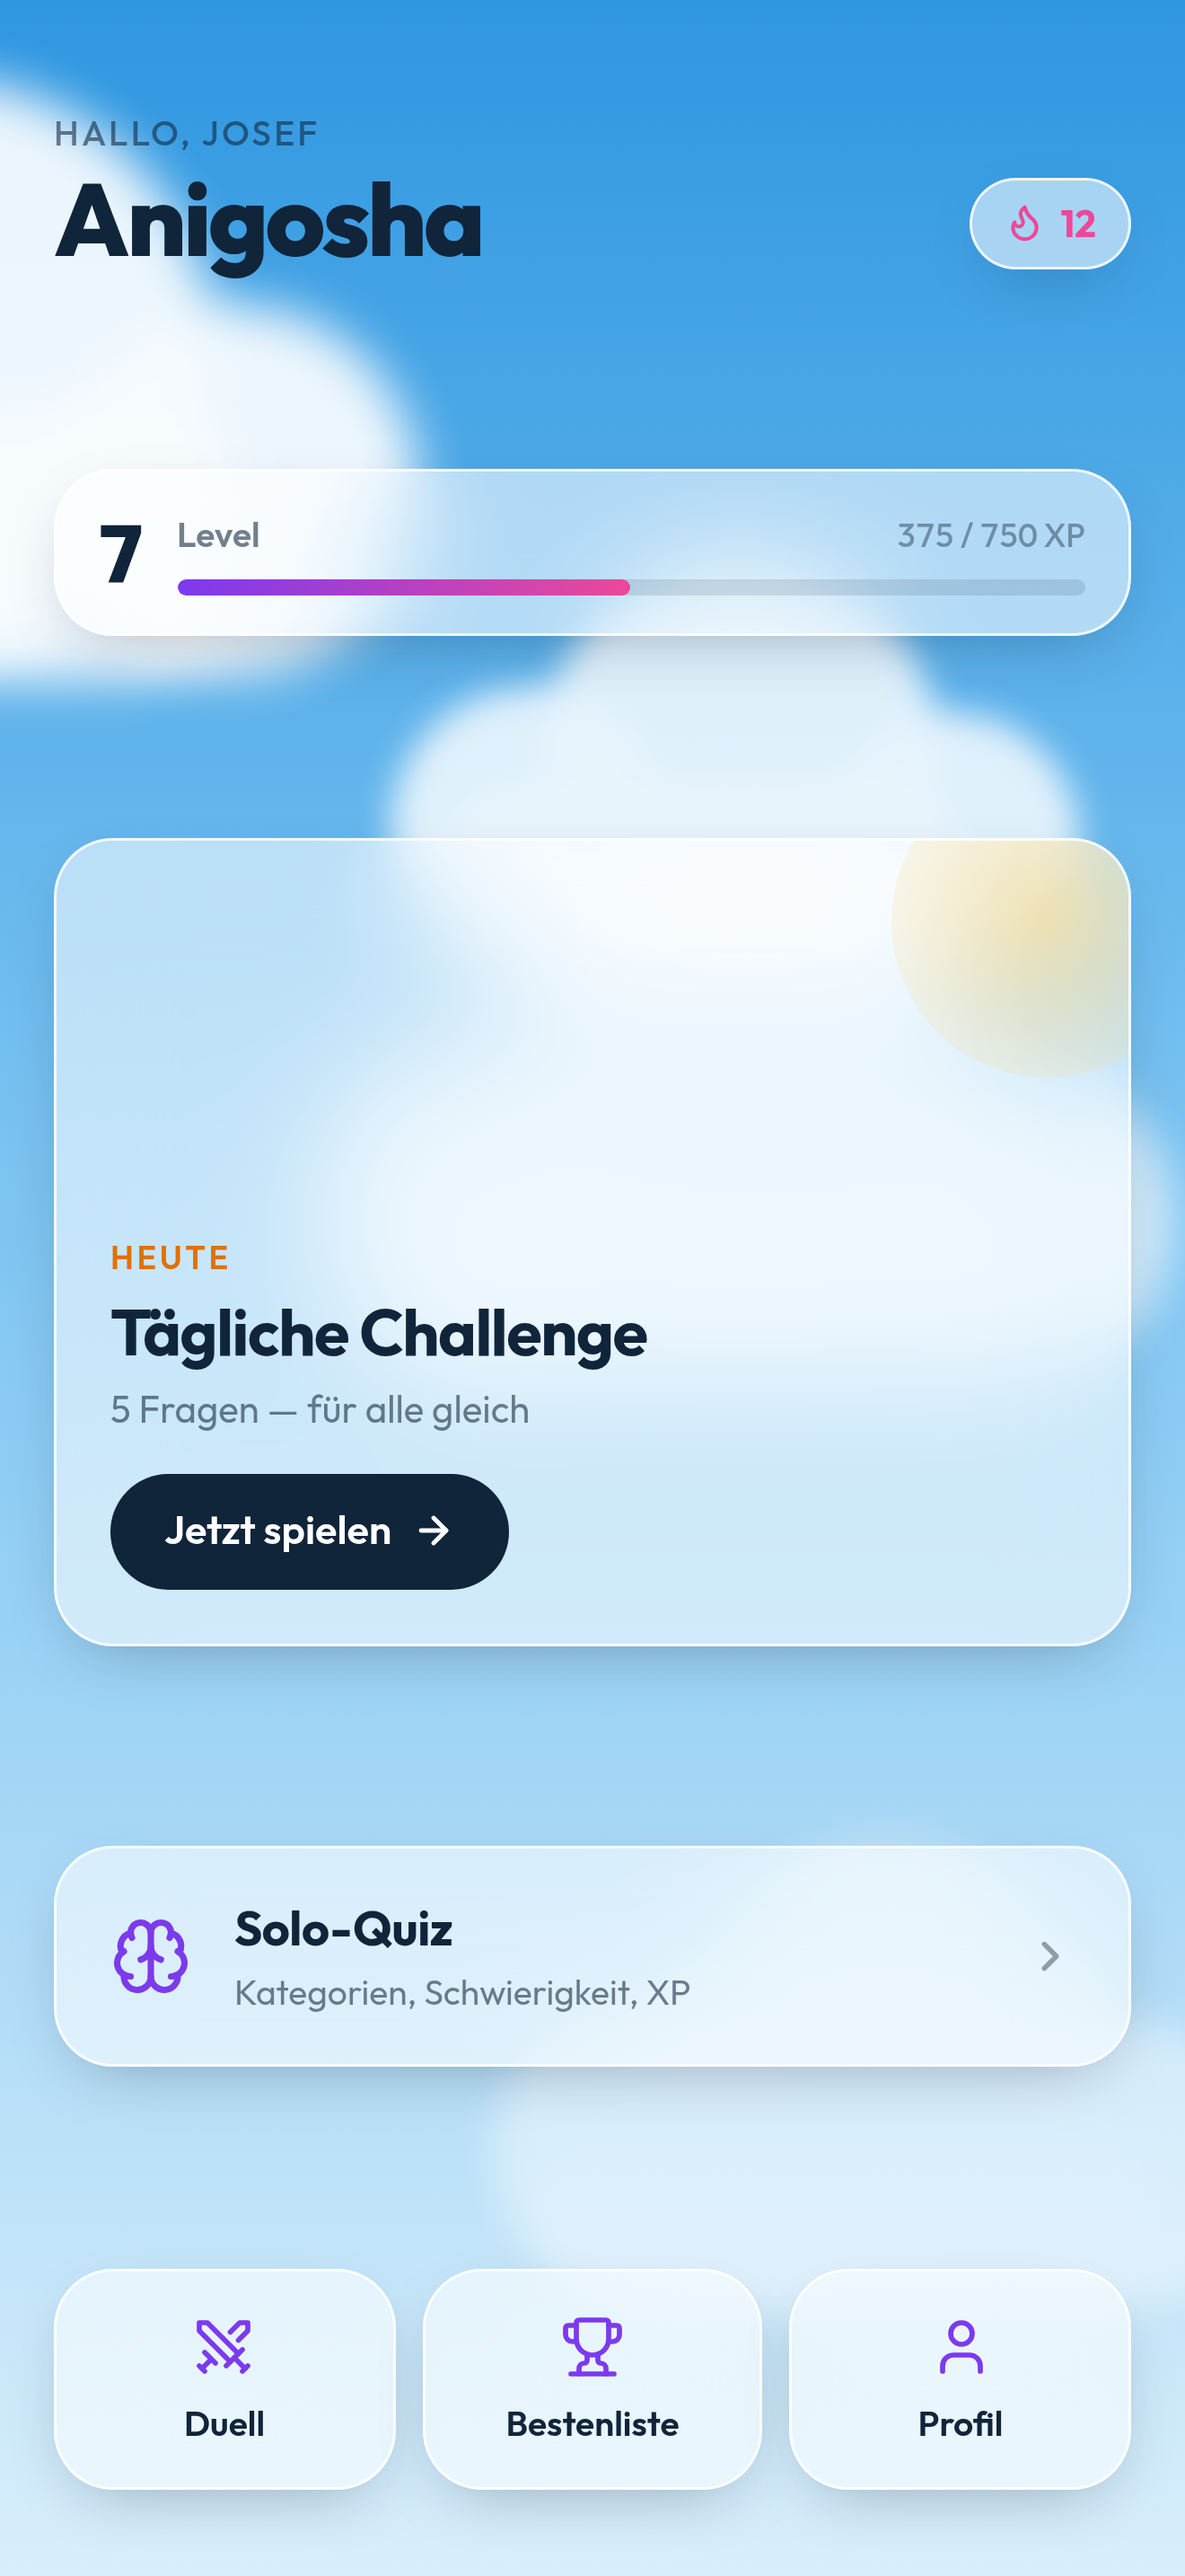
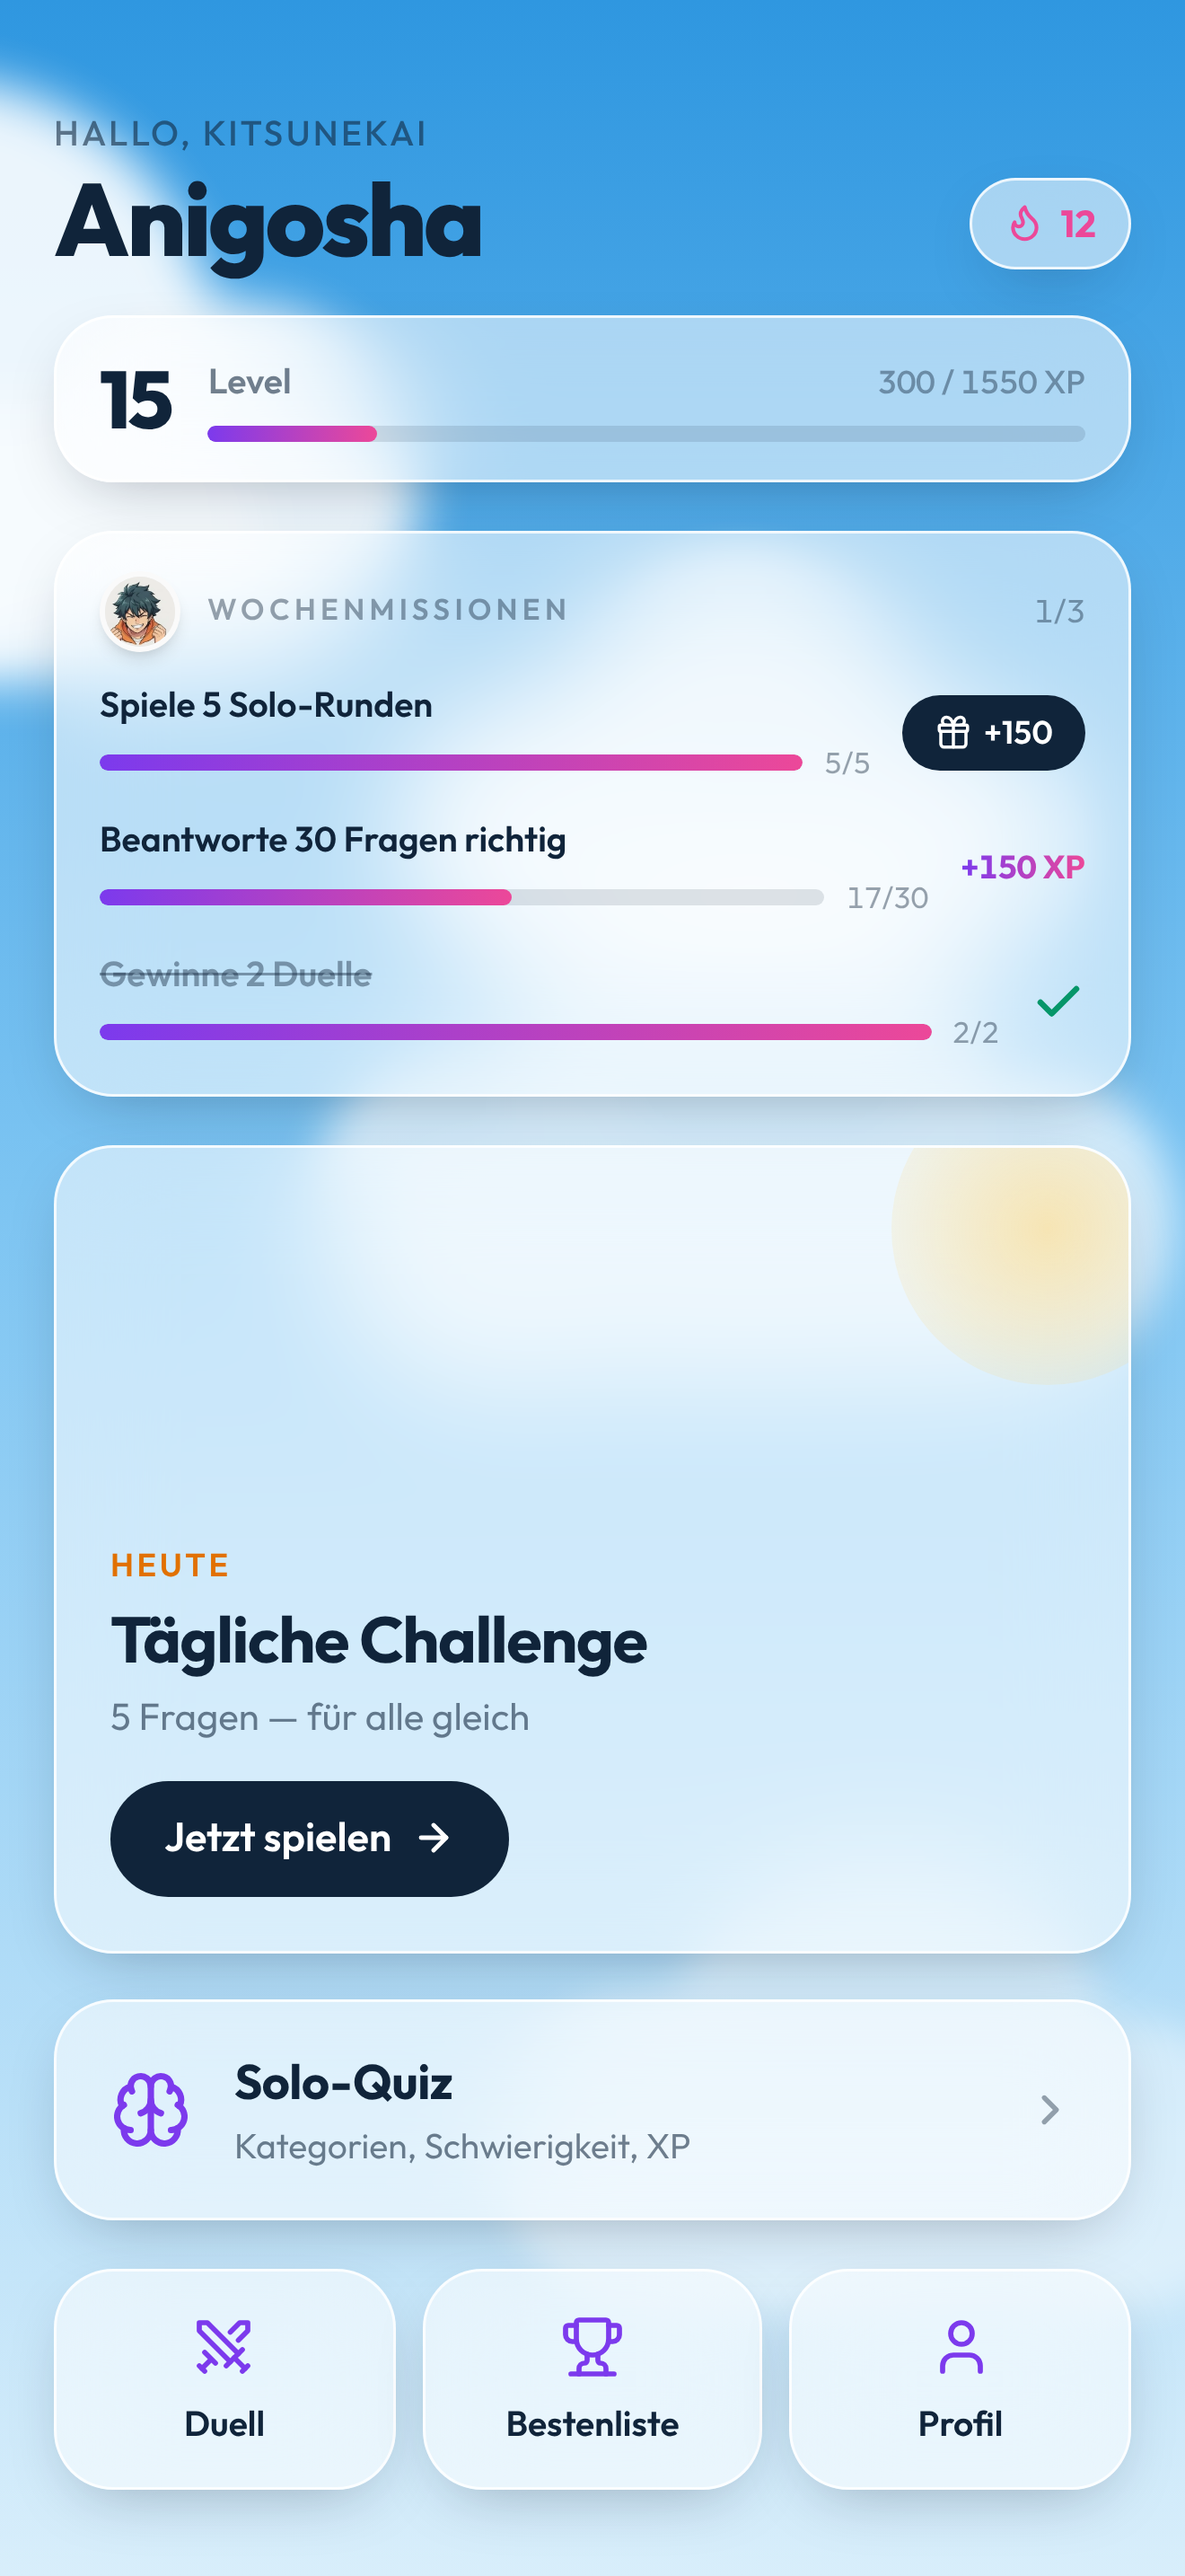
Neue Store-Screenshots: Missionen, Modi, Wer bin ich?, Avatare (5 Sprachen, 3 Formate)
- tools/store-shots-pruefstand.mjs: 7 Motive, klickt sich bis zum
  gewünschten Zustand, alle fünf Sprachen als Vorgabe, FORMAT=… zum Eingrenzen
- Prüfstand: Fragen, Erklärung und Hinweise je Sprache, erfundener
  Spielername statt Josef, Avatar passend zum Level
- alte Dateinamen (2-solo, 3-duell, 4-bestenliste, 5-profil) entfernt

Claude-Session: https://claude.ai/code/session_01Ba53FvWnmGrAjFCoXEtt6S

diff --git a/.pruefstand/stubs/solo.ts b/.pruefstand/stubs/solo.ts
@@ -2,21 +2,46 @@ const KAT = [
   ['one_piece','One Piece'],['naruto','Naruto'],['dragon_ball','Dragon Ball'],['pokemon','Pokémon'],
   ['detektiv_conan','Detektiv Conan'],['inuyasha','InuYasha'],['ranma','Ranma ½'],['attack_on_titan','Attack on Titan'],
   ['death_note','Death Note'],['my_hero','My Hero Academia'],['demon_slayer','Demon Slayer'],['jujutsu_kaisen','Jujutsu Kaisen'],
-  ['frieren','Frieren'],['chainsaw_man','Chainsaw Man'],['spy_family','Spy x Family'],['solo_leveling','Solo Leveling'],['blue_lock','Blue Lock'],['hunter_x_hunter','Hunter x Hunter'],['emoji_raetsel','Emoji-Rätsel'],
+  ['frieren','Frieren'],['chainsaw_man','Chainsaw Man'],['spy_family','Spy x Family'],['solo_leveling','Solo Leveling'],['blue_lock','Blue Lock'],['hunter_x_hunter','Hunter x Hunter'],['emoji_raetsel','Emoji-Rätsel','Emoji Riddles'],
 ];
 export const fetchCategories = async () =>
-  KAT.map(([slug, name], i) => ({ id: slug, slug, name_de: name, name_en: name, sort_order: i + 1 }));
+  KAT.map(([slug, name, en], i) => ({ id: slug, slug, name_de: name, name_en: en ?? name, sort_order: i + 1 }));
+// Texte je Sprache — sonst trügen die Store-Bilder für ES/FR/PT deutsche Fragen.
+const L = (() => {
+  try { return (localStorage.getItem('language') ?? 'de').slice(0, 2); } catch { return 'de'; }
+})();
+const T = {
+  de: { frage: 'Welchen Namen legt sich Shinichi als Kind zu?', erkl: 'Der Name setzt sich aus zwei berühmten Krimiautoren zusammen.',
+        wer: 'Wer bin ich? Ich bin aus Gummi und wurde in einem kleinen Dorf im East Blue groß. (One Piece)',
+        hin: ['Ich trage einen Strohhut.', 'Ich will König der Piraten werden.'], ruffy: 'Monkey D. Ruffy', zorro: 'Lorenor Zorro' },
+  en: { frage: 'What name does Shinichi take on as a child?', erkl: 'The name combines two famous crime writers.',
+        wer: 'Who am I? I am made of rubber and grew up in a small village in the East Blue. (One Piece)',
+        hin: ['I wear a straw hat.', 'I want to become King of the Pirates.'], ruffy: 'Monkey D. Luffy', zorro: 'Roronoa Zoro' },
+  es: { frage: '¿Qué nombre adopta Shinichi cuando es niño?', erkl: 'El nombre combina a dos famosos autores de novela negra.',
+        wer: '¿Quién soy? Soy de goma y crecí en un pequeño pueblo del East Blue. (One Piece)',
+        hin: ['Llevo un sombrero de paja.', 'Quiero ser el Rey de los Piratas.'], ruffy: 'Monkey D. Luffy', zorro: 'Roronoa Zoro' },
+  fr: { frage: 'Quel nom Shinichi prend-il une fois redevenu enfant ?', erkl: 'Le nom associe deux célèbres auteurs de romans policiers.',
+        wer: 'Qui suis-je ? Je suis en caoutchouc et j’ai grandi dans un petit village d’East Blue. (One Piece)',
+        hin: ['Je porte un chapeau de paille.', 'Je veux devenir le Roi des Pirates.'], ruffy: 'Monkey D. Luffy', zorro: 'Roronoa Zoro' },
+  pt: { frage: 'Que nome Shinichi adota quando volta a ser criança?', erkl: 'O nome junta dois famosos autores de romances policiais.',
+        wer: 'Quem sou eu? Sou de borracha e cresci numa pequena vila do East Blue. (One Piece)',
+        hin: ['Uso um chapéu de palha.', 'Quero ser o Rei dos Piratas.'], ruffy: 'Monkey D. Luffy', zorro: 'Roronoa Zoro' },
+}[L] ?? null;
+const t = T ?? { frage: '', erkl: '', wer: '', hin: [], ruffy: '', zorro: '' };
 const FRAGE = {
   id: 'q1', type: 'mc', image: null,
-  prompt: 'Welchen Namen legt sich Shinichi als Kind zu?',
+  prompt: t.frage,
   options: ['Kaito Kuroba', 'Subaru Okiya', 'Mitsuhiko Tsuburaya', 'Conan Edogawa'],
   hints: null,
 };
-export const startSolo = async () => ({ session_id: 's1', questions: Array.from({ length: 10 }, (_, i) => (i === 0 ? { id: 'q0', type: 'who_am_i', image: null, prompt: 'Wer bin ich? Ich bin aus Gummi und wurde in einem kleinen Dorf im East Blue groß. (One Piece)', options: ['Lorenor Zorro', 'Monkey D. Ruffy', 'Sanji', 'Nami'], hints: [] } : { ...FRAGE, id: 'q' + i })) });
+const WER = { id: 'q0', type: 'who_am_i', image: null, prompt: t.wer, options: [t.zorro, t.ruffy, 'Sanji', 'Nami'], hints: [] };
+// ?wer=1 startet die Runde mit „Wer bin ich?" (Store-Bild), sonst normale Fragen.
+const mitWer = typeof location !== 'undefined' && new URLSearchParams(location.search).has('wer');
+export const startSolo = async () => ({ session_id: 's1', questions: Array.from({ length: 10 }, (_, i) => (i === 0 && mitWer ? WER : { ...FRAGE, id: 'q' + i })) });
 export const startDaily = async () => ({ session_id: 's1', already_done: false, questions: Array.from({ length: 5 }, (_, i) => ({ ...FRAGE, id: 'q' + i })) });
 let antworten = 0;
-// Abwechselnd falsch/richtig, damit Figuren und Teilen-Raster beide Fälle zeigen.
-export const answerSolo = async () => ({ correct: antworten++ % 3 === 1 || antworten % 3 === 0, correct_index: 3, explanation: 'Der Name setzt sich aus zwei berühmten Krimiautoren zusammen.', counted: true });
+// Richtig, falsch, richtig … — die erste Antwort ist richtig (Store-Bild), danach gemischt.
+export const answerSolo = async () => ({ correct: antworten++ % 3 !== 1, correct_index: 3, explanation: t.erkl, counted: true });
 export const finishSolo = async () => ({ correct: 8, total: 10, xp: 120, replay: false, streak: 8 });
 export const fiftyFifty = async () => [1, 2];
 export const reportQuestion = async () => {};
@@ -28,4 +53,4 @@ export const fiftyFiftyExtra = async () => [1, 2];
 export const restoreStreak = async () => 9;
 export const BLITZ_SEKUNDEN = 60;
 export const SURVIVAL_LEBEN = 3;
-export const revealHint = async () => ['Ich trage einen Strohhut.', 'Ich will König der Piraten werden.'];
+export const revealHint = async () => t.hin;

diff --git a/.pruefstand/stubs/duel.ts b/.pruefstand/stubs/duel.ts
@@ -10,6 +10,6 @@ export const challengeFriend = async () => ({ match_id: 'm1', opponent: geg('Fre
 export const duelState = async () => ({ match_id: 'm1', status: 'active', round_no: 3, my_turn: true, my_score: 5, opp_score: 4, winner_id: null, opponent: geg('KiraFan88') });
 export const getDuelRound = async () => [] as never[];
 export const answerDuel = async () => ({ correct: true, correct_index: 3, explanation: null, counted: true });
-const N = ['YukiBlade','RenjiX','NozomiQ','HikariNeko','Zoro92','TanukiRen','Josef','SakuraDrop','GonFreaks','MioFuji'];
+const N = ['YukiBlade','RenjiX','NozomiQ','HikariNeko','Zoro92','TanukiRen','KitsuneKai','SakuraDrop','GonFreaks','MioFuji'];
 export const globalLeaderboard = async () =>
-  N.map((username, i) => ({ username, avatar_id: ['maedchen-yukata','junge-sport','maedchen-winter',null,null,'junge-schule',null,'maedchen-frech'][i] ?? null, is_bot: i === 4 || i === 8, elo: 1487 - i * 32, xp: 4800 - i * 240, rank: i + 1 }));
+  N.map((username, i) => ({ username, avatar_id: ['maedchen-yukata','junge-sport','maedchen-winter',null,null,'junge-schule','junge-winter','maedchen-frech'][i] ?? null, is_bot: i === 4 || i === 8, elo: 1487 - i * 32, xp: 4800 - i * 240, rank: i + 1 }));

diff --git a/.pruefstand/stubs/AuthContext.tsx b/.pruefstand/stubs/AuthContext.tsx
@@ -1,6 +1,6 @@
 import type { ReactNode } from 'react';
 export const profil = {
-  id: 'u1', username: 'Josef', avatar_id: 'junge-winter', xp: 2775, elo: 1264, level: 4,
+  id: 'u1', username: 'KitsuneKai', avatar_id: 'junge-winter', xp: 11500, elo: 1264, level: 4,
   streak_current: 12, streak_best: 12, is_bot: false, language: 'de',
 };
 // ?gast=1 zeigt die Gast-Fassung (Karte „Konto sichern" im Profil).
